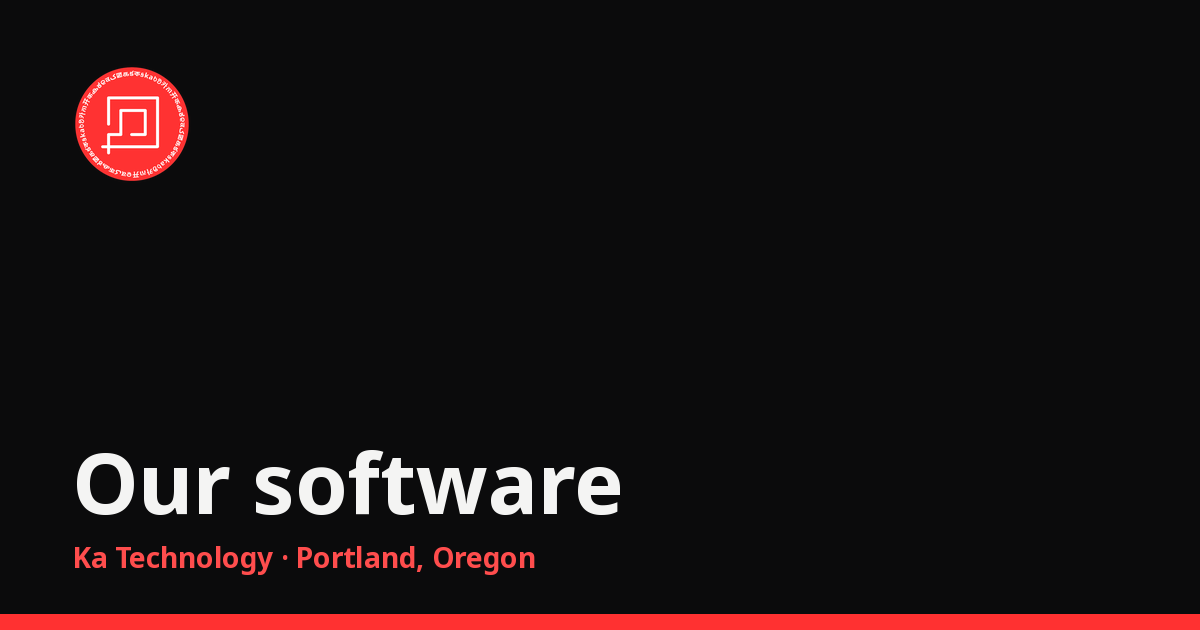
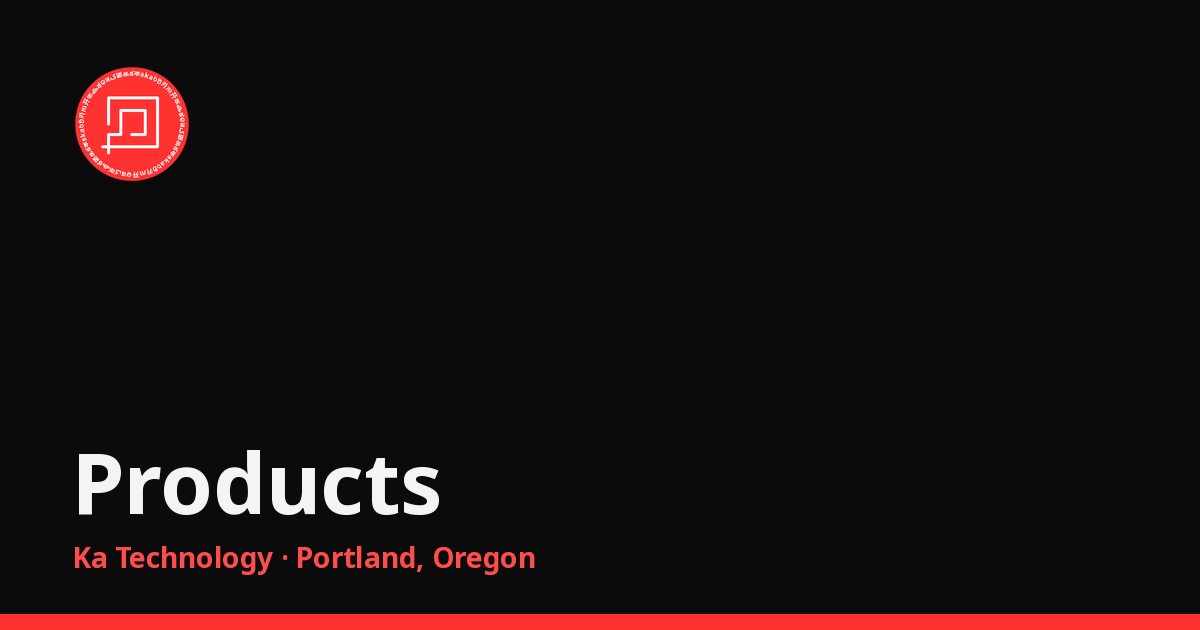
Products tab title is Products; share images updated (Products, Milligan's Landscaping, curly apostrophes)

Changed region(s): [[0.0617, 0.6937, 0.5242, 0.8143]]

diff --git a/site/scripts/og.py b/site/scripts/og.py
@@ -34,11 +34,12 @@ def fm(path, key):
     return m.group(1).strip().strip('"') if m else ''
 
 card('default', 'Giving people the power of meaningful choices.')
-for slug, t in [('services', 'Consulting services'), ('work', 'Our work'), ('products', 'Our software'), ('about', 'Our story'), ('careers', 'Build with us'), ('contact', "Let's talk.")]:
+for slug, t in [('services', 'Consulting services'), ('work', 'Our work'), ('products', 'Products'), ('about', 'Our story'), ('careers', 'Build with us'), ('contact', 'Let’s talk.')]:
     card(slug, t)
 for p in glob.glob('src/content/projects/*.md'):
-    s = os.path.basename(p)[:-3]; card(f'work-{s}', f"{fm(p, 'client')}: {fm(p, 'title')}")
+    s = os.path.basename(p)[:-3]; name = fm(p, 'heading') or fm(p, 'client')
+    card(f'work-{s}', f"{name}: {fm(p, 'title')}".replace("'", '’'))
 for p in glob.glob('src/content/products/*.md'):
     if fm(p, 'hidden') == 'true': continue  # hidden products get no preview image
-    s = os.path.basename(p)[:-3]; card(f'product-{s}', f"{fm(p, 'name')}: {fm(p, 'tagline')}")
+    s = os.path.basename(p)[:-3]; card(f'product-{s}', f"{fm(p, 'name')}: {fm(p, 'tagline')}".replace("'", '’'))
 print('ok')
